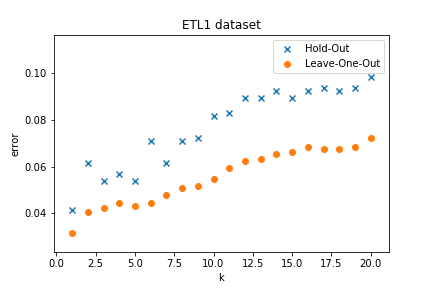
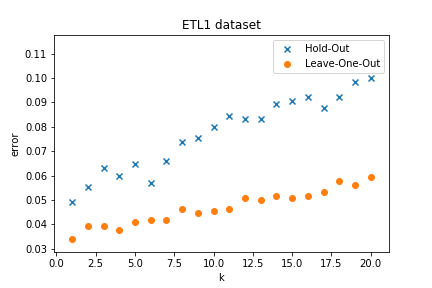
fix 5_2_knn.py

diff --git a/chap05/5_2_knn.py b/chap05/5_2_knn.py
@@ -73,8 +73,9 @@ def convert_etl_file(filename, out_path):
 
 
 def load_img(filename):
-    scale = 1.0 / 256.0
-    image = np.array(Image.open(filename), dtype=np.float32) * scale
+    image = np.array(Image.open(filename), dtype=np.float32)
+    scale = 1.0 / (image.max() or 1)
+    image = image * scale
     y = int(os.path.splitext(os.path.basename(filename))[0][-1])
     return image.reshape(1, 16 * 16), y
 
